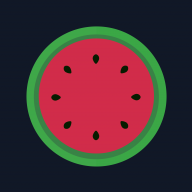
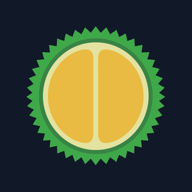
custom theme fixes

diff --git a/pages/_app.tsx b/pages/_app.tsx
@@ -94,14 +94,8 @@ function MyApp({ Component, pageProps }) {
 	const [settingsModal,setSettingsModal]=useState<boolean>(false);
 	const [showCountdown,setShowCountdown]=useState<boolean>(true);
 	const [highlightColor,setHighlightColor]=useState<string|null>(null);
-	const [siteTitle,setSiteTitle]=useState<string>(() => {
-		if (typeof window !== 'undefined') return localStorage.getItem('siteTitle') ?? "";
-		return "";
-	});
-	const [customLogo,setCustomLogo]=useState<string>(() => {
-		if (typeof window !== 'undefined') return localStorage.getItem('customLogo') ?? "";
-		return "";
-	});
+	const [siteTitle,setSiteTitle]=useState<string>("");
+	const [customLogo,setCustomLogo]=useState<string>("");
 	useEffect(() => {
 		if (customLogo && !hideCustomTheme) { setLogoSrc(customLogo); updateFavicon(customLogo); }
 	}, [customLogo, router.pathname, client]);
@@ -117,7 +111,6 @@ function MyApp({ Component, pageProps }) {
 			if (t !== document.title) document.title = t;
 		};
 		prevSiteTitleRef.current = isLoggedInPage ? (siteTitle || "") : "";
-		localStorage.setItem('siteTitle', siteTitle || "");
 		applyTitle();
 		if (!isLoggedInPage || !siteTitle || siteTitle === APP_NAME) return;
 		const titleEl = document.querySelector('title');
@@ -130,13 +123,7 @@ function MyApp({ Component, pageProps }) {
 		return () => observer.disconnect();
 	}, [siteTitle, router.pathname, client]);
 	const [originalGradingScale,setOriginalGradingScale]=useState<any>(null);
-	const [logoSrc, setLogoSrc] = useState<string>(() => {
-		if (typeof window !== 'undefined') {
-			const saved = localStorage.getItem('customLogo');
-			if (saved) return saved;
-		}
-		return `${process.env.NEXT_PUBLIC_BASE_PATH || ''}/assets/logo.png`;
-	});
+	const [logoSrc, setLogoSrc] = useState<string>(`${process.env.NEXT_PUBLIC_BASE_PATH || ''}/assets/logo.png`);
 	const [studentInfo, setStudentInfo] = useState(undefined);
 	const [toasts, setToasts] = useState<Toast[]>([]);
 	const [cacheLoading,setCacheLoading]=useState(true)
@@ -153,7 +140,7 @@ function MyApp({ Component, pageProps }) {
 	const [schoolIndex,setSchoolIndex]=useState(0)
 	const [donation,setDonation]=useState(undefined)
 	const isMediumOrLarger = width >= 768;
-	const hideCustomTheme = noCustomTheme.includes(router.pathname) || !!(client as any)?.guest;
+	const hideCustomTheme = noCustomTheme.includes(router.pathname);
 	const [gated, setGated] = useState(true); // url masking
 	const logoColorApplied = useRef(false);
 
@@ -178,22 +165,20 @@ function MyApp({ Component, pageProps }) {
 
 	useEffect(() => {
 		const base = process.env.NEXT_PUBLIC_BASE_PATH || '';
-		if (router.pathname === '/' || router.pathname === '/login' || (client as any)?.guest) {
+		if (router.pathname === '/' || router.pathname === '/login') {
 			applyPalette(DEFAULT_PRIMARY);
 			setLogoSrc(`${base}/assets/logo.png`);
 			updateFavicon(`${base}/favicon.ico`);
 			return;
 		}
-		if (gated) return;
-		const cached = localStorage.getItem('primaryColor');
-		if (cached) {
-			applyPalette(cached);
-			if (!logoColorApplied.current) {
-				logoColorApplied.current = true;
-				applyColor(cached);
-			}
-		}
+		if (gated || (client as any)?.guest) return;
 	}, [router.pathname, gated, client]);
+
+	useEffect(() => {
+		localStorage.removeItem('customLogo');
+		localStorage.removeItem('siteTitle');
+		localStorage.removeItem('primaryColor');
+	}, []);
 
 	useEffect(() => {
 		const isMobile = /iPhone|iPad|iPod|Android/i.test(navigator.userAgent);
@@ -227,6 +212,13 @@ function MyApp({ Component, pageProps }) {
 
 
 	function guestLogin(){
+		const base = process.env.NEXT_PUBLIC_BASE_PATH || '';
+		applyPalette(DEFAULT_PRIMARY);
+		logoColorApplied.current = false;
+		setLogoSrc(`${base}/assets/logo.png`);
+		updateFavicon(`${base}/favicon.ico`);
+		setCustomLogo("");
+		setSiteTitle("");
 		//@ts-expect-error
 		setClient({guest:true,loadedAttendance:attendance,loadedSchedule:schedule,loadedDocuments:[{file:{date:new Date(),type:"Sample"},comment:"Sample Document",get:()=>{return [{base64:sampleDocument}]	}}]})
 		setGrades(sample)
@@ -250,6 +242,8 @@ function MyApp({ Component, pageProps }) {
 		await setLoading(true);
 		localStorage.removeItem("infoCache")
 		localStorage.removeItem("xmlCache2")
+		setCustomLogo("");
+		setSiteTitle("");
 
 		const encryptedPass=getCourseSettings(username,password,encrypted,url);
 
@@ -368,13 +362,20 @@ it would probably be a good idea to show the final grade also on the Home Screen
 					headers: { 'Content-Type': 'application/json' },
 					body: JSON.stringify({ url: fetchedClient.district, userHash: fetchedClient.username })
 				}).then(r => r.json()).then(result => {
-					if (!result.status) return;
+					if (!result.status) {
+						fetch(apiUrl + "/setSettings", {
+							method: 'POST',
+							headers: { 'Content-Type': 'application/json' },
+							body: JSON.stringify({ url: fetchedClient.district, userHash: fetchedClient.username, settings: { ...freshCache[0].settings, showCountdown: true, primaryColor: null, highlightColor: null, siteTitle: "", customLogo: "" } })
+						}).catch(() => {});
+						return;
+					}
 					const saved = result.settings;
 					if (saved.showCountdown !== undefined) setShowCountdown(Boolean(saved.showCountdown));
 				if (saved.highlightColor !== undefined) setHighlightColor(saved.highlightColor ?? null);
 				if (saved.siteTitle !== undefined) setSiteTitle(saved.siteTitle ?? "");
-				if (saved.customLogo !== undefined) { setCustomLogo(saved.customLogo ?? ""); localStorage.setItem('customLogo', saved.customLogo ?? ""); }
-				if (saved.primaryColor) { applyPalette(saved.primaryColor, true); if (!saved.customLogo) applyColor(saved.primaryColor); }
+				if (saved.customLogo !== undefined) setCustomLogo(saved.customLogo ?? "");
+				if (saved.primaryColor) { applyPalette(saved.primaryColor); if (!saved.customLogo) applyColor(saved.primaryColor); }
 					const cache: Cache = structuredClone(freshCache);
 					for (const key in saved) {
 						if (key === "default" || key === "mode" || key === "showCountdown" || key === "primaryColor" || key === "highlightColor") continue;
@@ -540,7 +541,7 @@ useEffect(()=>{
  
 
 	useEffect(()=>{ //Hook responsible for fetching studentInfo
-		if(client!==undefined&&studentInfo==undefined){
+		if(client!==undefined&&studentInfo==undefined&&!(client as any)?.guest){
 			if(localStorage.getItem("infoCache")!=undefined){ //temporarily re-enabling infoCache
 				const cache=JSON.parse(localStorage.getItem("infoCache"));
 				if(cache.user==client.username){

diff --git a/components/settingsModal.tsx b/components/settingsModal.tsx
@@ -84,7 +84,7 @@ useEffect(()=>{
   setPendingShowCountdown(showCountdown)
   setPendingHighlightColor((settings as any).highlightColor ?? null)
   setPendingPrimaryColor((settings as any).primaryColor || DEFAULT_PRIMARY)
-  setPendingSiteTitle((settings as any).siteTitle ?? "")
+  setPendingSiteTitle((settings as any).siteTitle ?? siteTitle ?? "")
   setLetterScale(index!=-1 ? (grades?.[period]?.courses[index].settings?.letterScale || undefined) : settings.default.letterScale)
   setRounding(index!=-1 ? (grades?.[period]?.courses[index].settings?.rounding || undefined) : settings.default.rounding)
   setFinals(course.settings.finals)
@@ -317,17 +317,16 @@ async function saveNew(){
     ;(tempSettings as any).highlightColor = pendingHighlightColor
     setHighlightColor(pendingHighlightColor)
     ;(tempSettings as any).primaryColor = pendingPrimaryColor
-    applyPalette(pendingPrimaryColor, true)
+    applyPalette(pendingPrimaryColor)
     onColorPreview?.(pendingPrimaryColor)
     ;(tempSettings as any).siteTitle = pendingSiteTitle
     setSiteTitle(pendingSiteTitle)
-    localStorage.setItem('customLogo', customLogo)
     ;(tempSettings as any).customLogo = customLogo
 
     const tempGrades=await saveAndApply(tempSettings)
     if(tempGrades){
       const ham=index!=-1 ? tempGrades[period].courses[index].settings : tempSettings.default
-      localStorage.removeItem("xmlCache")
+      if (!(client as any)?.guest) localStorage.removeItem("xmlCache")
       setLetterScale(ham.letterScale)
       setRounding(ham.rounding)
       setFinals(ham.finals)
@@ -467,7 +466,7 @@ return(
 {letterScale!=undefined ? (
 <Modal 
 show={showModal}
-onClose={()=>{ applyPalette((settings as any).primaryColor || DEFAULT_PRIMARY); onColorPreview?.((settings as any).primaryColor || DEFAULT_PRIMARY); setSiteTitle((settings as any).siteTitle ?? ""); setCustomLogo(localStorage.getItem('customLogo') ?? ""); setShowModal(false); setViewStack(["home"])}}
+onClose={()=>{ applyPalette((settings as any).primaryColor || DEFAULT_PRIMARY); onColorPreview?.((settings as any).primaryColor || DEFAULT_PRIMARY); setSiteTitle((settings as any).siteTitle ?? ""); setCustomLogo((settings as any).customLogo ?? ""); setShowModal(false); setViewStack(["home"])}}
 className={!isMediumOrLarger && `bg-transparent`}
 >
 
@@ -1501,7 +1500,8 @@ onToggle={()=>setAdvancedOpen(!advancedOpen)}
           { label: 'Durian', color: DEFAULT_PRIMARY, title: 'Grade Durian', msg: "Default" },
           { label: 'Melon', color: '#f43f5e', title: 'Grade Melon', msg: "Legacy"},
         ];
-        const selected = (color: string, title: string) => pendingPrimaryColor === color && pendingSiteTitle === title && !customLogo;
+        const effectiveTitle = pendingSiteTitle || "Grade Durian";
+        const selected = (color: string, title: string) => pendingPrimaryColor === color && effectiveTitle === title && !customLogo;
         const isCustom = !presets.some(p => selected(p.color, p.title));
         const rowClass = (active: boolean) => `flex items-center justify-between p-3 rounded-lg border ${active ? 'border-gray-400 dark:border-gray-400 bg-neutral-200 dark:bg-gray-600' : 'border-gray-300 dark:border-gray-600 bg-neutral-50 dark:bg-[#2d3847]'}`;
         return (
@@ -1518,7 +1518,7 @@ onToggle={()=>setAdvancedOpen(!advancedOpen)}
                 <div className="w-6 h-6 rounded-full border border-gray-300" style={{backgroundColor: color}} />
               </button>
             ))}
-            <button onClick={() => { setViewStack(["color", "customtheme"]); const saved = localStorage.getItem('customLogo') ?? ""; setCustomLogo(saved); onColorPreview?.(pendingPrimaryColor); }} className={`${rowClass(isCustom)}`}>
+            <button onClick={() => { setViewStack(["color", "customtheme"]); const saved = (settings as any).customLogo ?? ""; setCustomLogo(saved); onColorPreview?.(pendingPrimaryColor); }} className={`${rowClass(isCustom)}`}>
               <div className="flex items-center gap-1.5 dark:text-white font-semibold">
                 Custom
                 {/* <HiPencil size="0.85rem" className="text-gray-400 dark:text-gray-500" /> */}
@@ -1694,7 +1694,7 @@ onToggle={()=>setAdvancedOpen(!advancedOpen)}
         applyPalette((settings as any).primaryColor || DEFAULT_PRIMARY)
         onColorPreview?.((settings as any).primaryColor || DEFAULT_PRIMARY)
         setSiteTitle((settings as any).siteTitle ?? "")
-        setCustomLogo(localStorage.getItem('customLogo') ?? "")
+        setCustomLogo((settings as any).customLogo ?? "")
         setShowModal(false)
         setViewStack(["home"])
       }}

diff --git a/pages/guest/index.tsx b/pages/guest/index.tsx
@@ -268,6 +268,7 @@ export default function Grades({
 				customLogo={customLogo}
 				setCustomLogo={setCustomLogo}
 				originalGradingScale={originalGradingScale}
+				onColorPreview={onColorPreview}
 			/></ClientOnly>
 
 							{!loading && schoolsList && <div className="flex justify-between flex-shrink w-full pb-3 md:-mt-9">

diff --git a/pages/guest/[index].tsx b/pages/guest/[index].tsx
@@ -416,6 +416,7 @@ export default function Grades({
 				customLogo={customLogo}
 				setCustomLogo={setCustomLogo}
 				originalGradingScale={originalGradingScale}
+				onColorPreview={onColorPreview}
 			/></ClientOnly>
 
 			<ClientOnly><OptimizationModal
